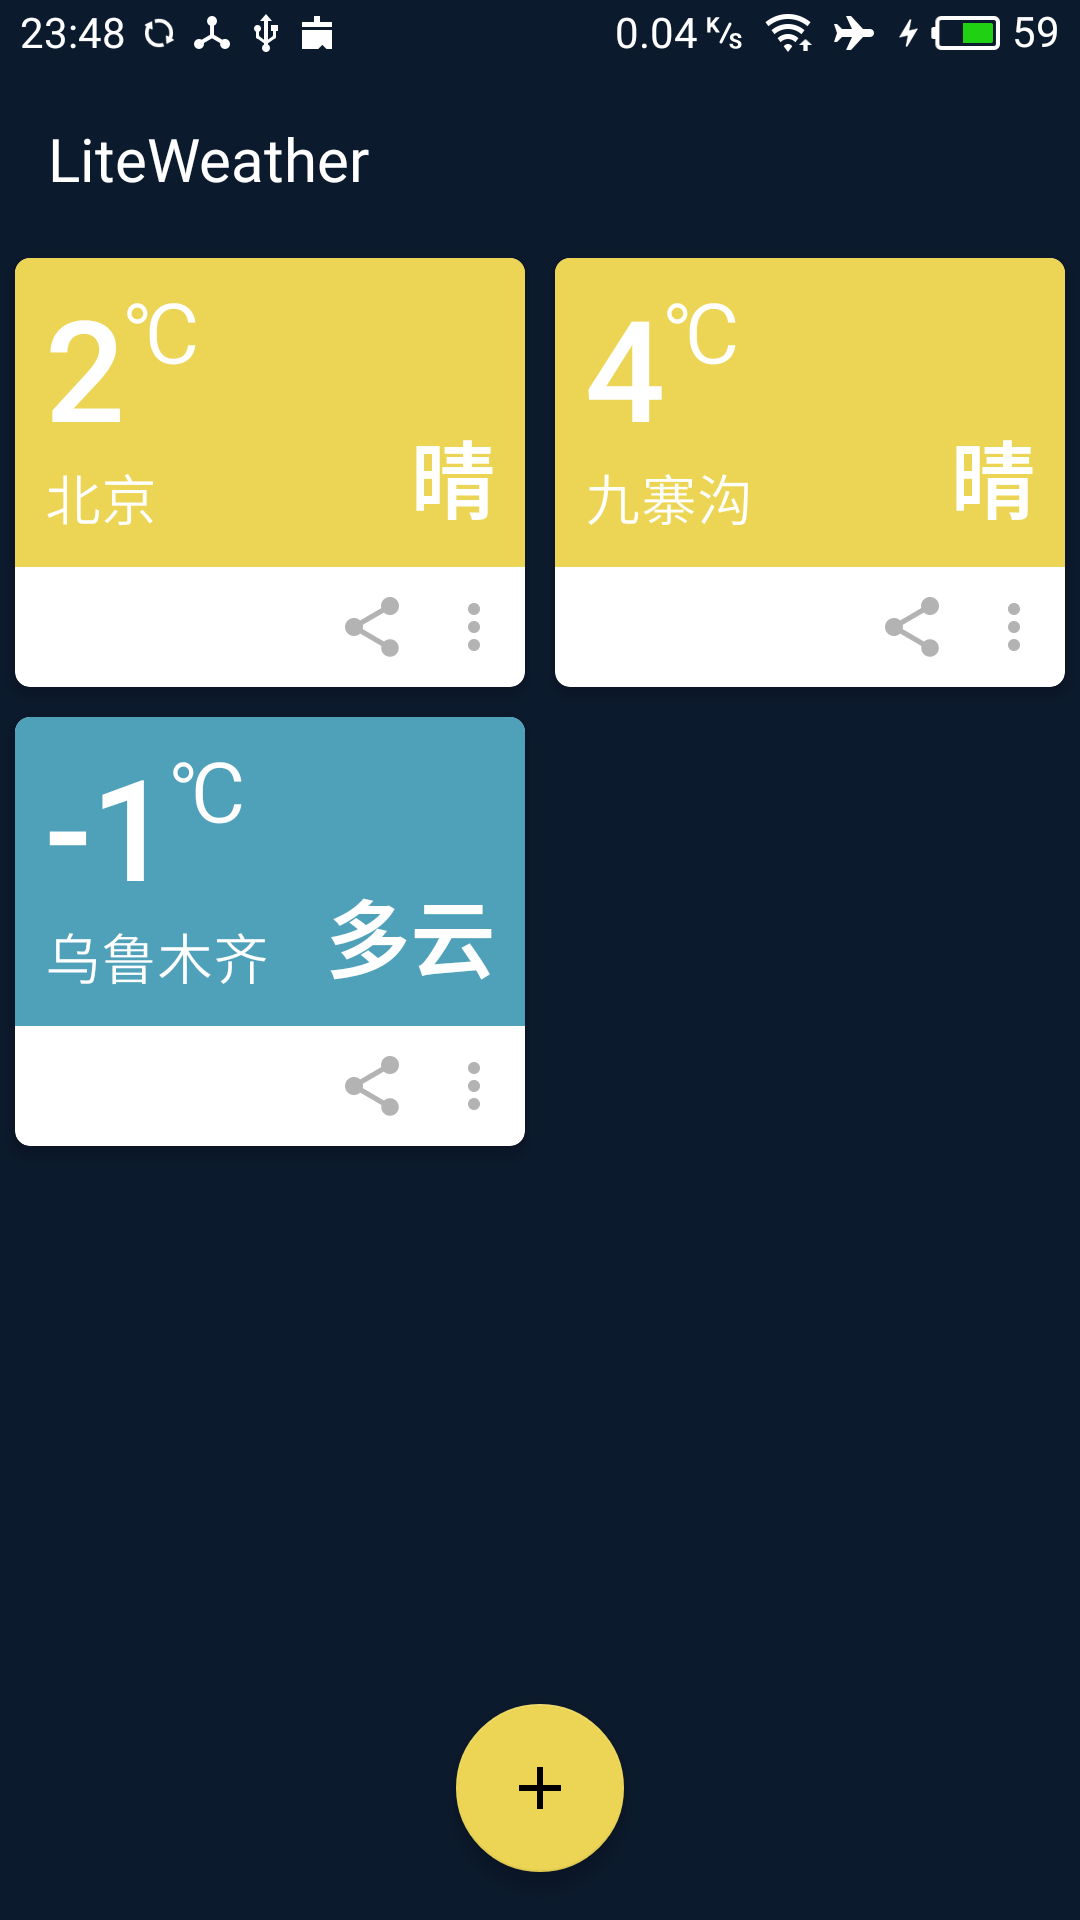
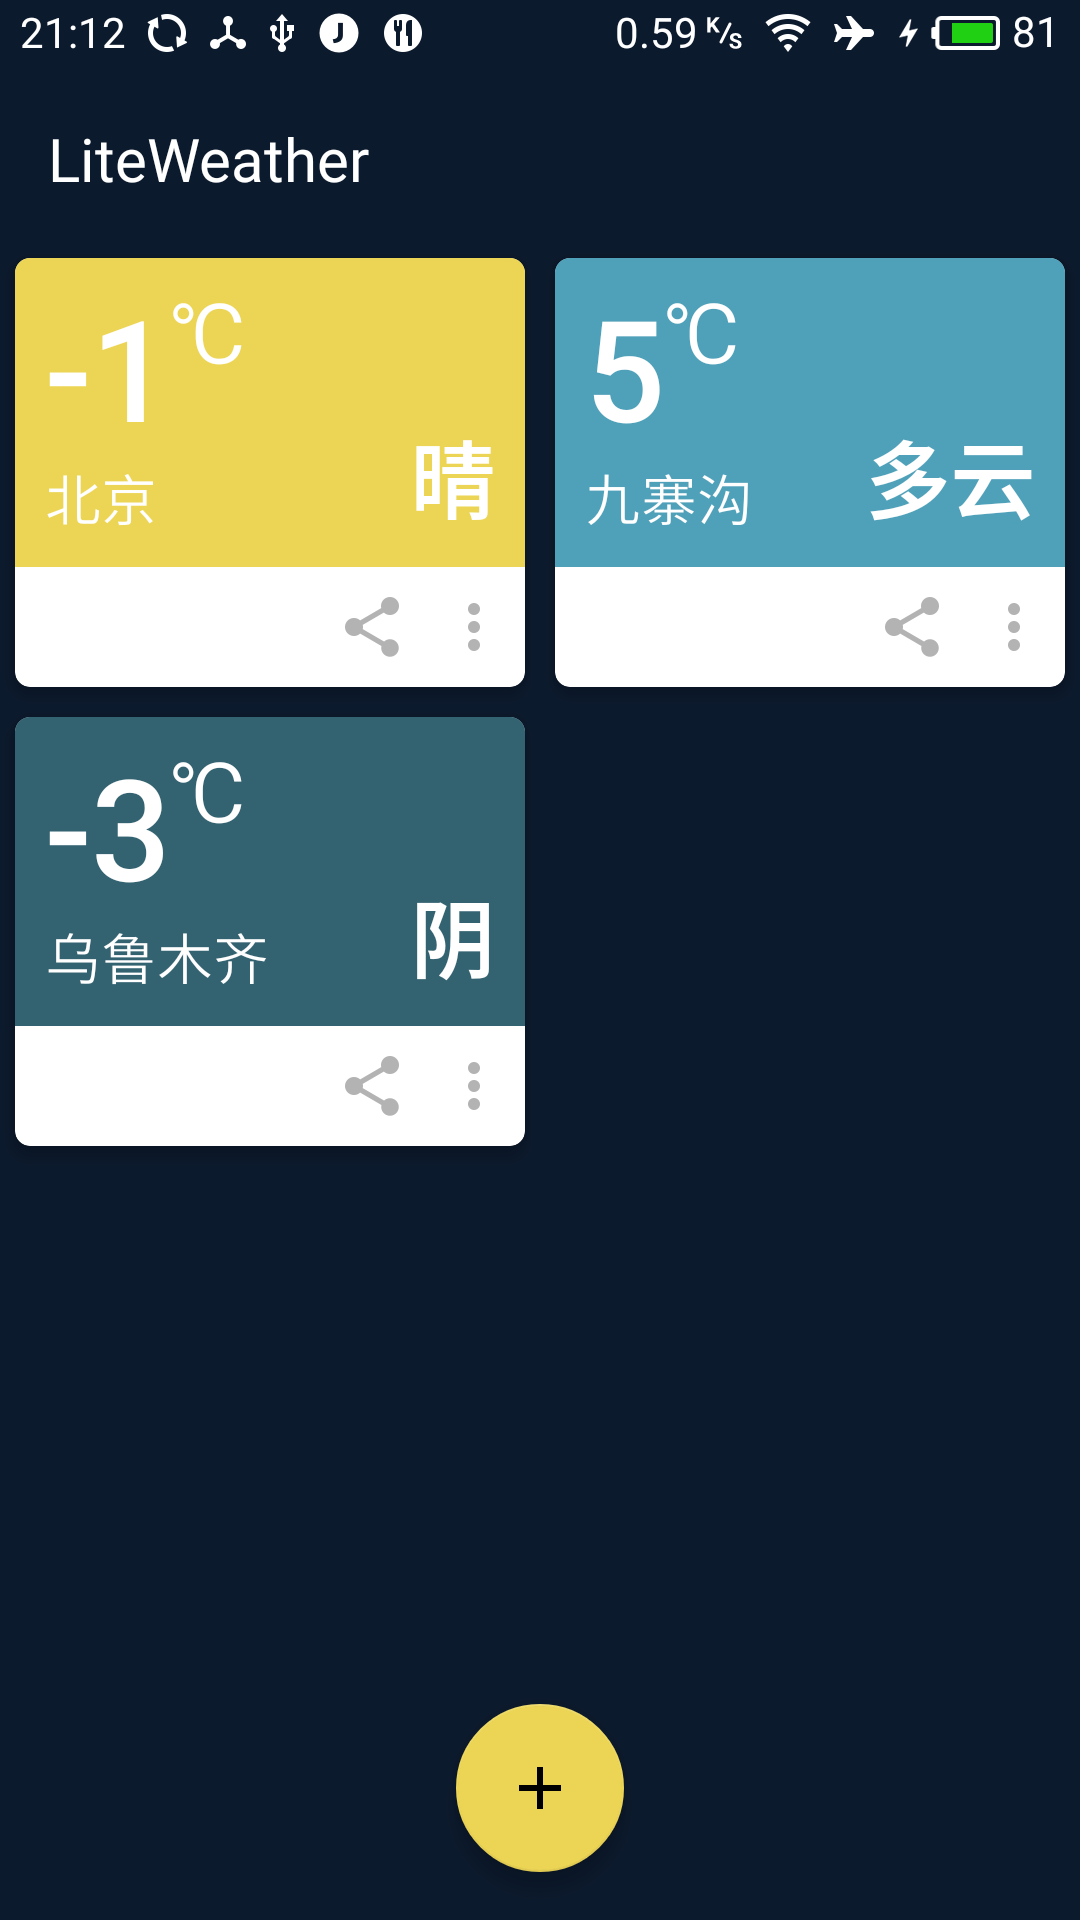
Implement: implement parts of weather detail page

diff --git a/app/src/main/java/io/github/mindjet/liteweather/viewmodel/DetailViewModel.kt b/app/src/main/java/io/github/mindjet/liteweather/viewmodel/DetailViewModel.kt
@@ -1,38 +1,66 @@
 package io.github.mindjet.liteweather.viewmodel
 
 import android.databinding.ObservableField
+import android.graphics.Color
 import android.graphics.drawable.Drawable
 import io.github.mindjet.liteweather.R
 import io.github.mindjet.liteweather.consant.Constant
 import io.github.mindjet.liteweather.consant.WeatherTxt
 import io.github.mindjet.liteweather.databinding.ActivityDetailBinding
+import io.github.mindjet.liteweather.model.DetailResponse
+import io.github.mindjet.liteweather.network.CommTrans
+import io.github.mindjet.liteweather.network.RetrofitInstance
+import io.github.mindjet.liteweather.network.WeatherService
 import io.github.mindjet.livemvvm.viewmodel.BaseViewModel
 
 /**
+ * ViewModel for weather detail.
+ *
  * Created by Mindjet on 2017/11/11.
  */
 class DetailViewModel : BaseViewModel<ActivityDetailBinding>() {
 
     private val city by lazy { activity?.intent?.getStringExtra(Constant.INTENT_CITYNAME) }
     private val condition by lazy { activity?.intent?.getStringExtra(Constant.INTENT_CONDITION) }
+    private val temperature by lazy { activity?.intent?.getStringExtra(Constant.INTENT_TEMPERATURE) }
 
     private val recyclerView by lazy { binding?.recyclerView }
     private val collapsingLayout by lazy { binding?.collapsingLayout }
     private val toolbar by lazy { binding?.toolbar }
 
-    val cityName by lazy { ObservableField("--") }
+    private var response: DetailResponse? = null
+
+    val cityOb by lazy { ObservableField("--") }
+    val tempOb by lazy { ObservableField("--") }
+    val conditionOb by lazy { ObservableField("--") }
+    val windOb by lazy { ObservableField("--") }
+    val humidityOb by lazy { ObservableField("--") }
     val background by lazy { ObservableField<Drawable>() }
 
     override fun onAttached(binding: ActivityDetailBinding) {
+        cityOb.set(city)
+        tempOb.set(temperature)
+        conditionOb.set(condition)
         initCollapsingLayout()
         updateBackground()
+        fetchData()
     }
 
     private fun initCollapsingLayout() {
-        collapsingLayout?.title = city
         collapsingLayout?.setCollapsedTitleTextAppearance(R.style.TextAppearance)
         collapsingLayout?.setExpandedTitleTextAppearance(R.style.TextAppearance_Expend)
+        toolbar?.setTitleTextColor(Color.WHITE)
         toolbar?.setNavigationOnClickListener { onBack() }
+    }
+
+    private fun fetchData() {
+        RetrofitInstance.get<WeatherService>()
+                .getDetailWeather(city!!)
+                .compose(CommTrans.asyncSync<DetailResponse>())
+                .subscribe({
+                    response = it
+                    updateNowBlock()
+                })
     }
 
     private fun updateBackground() {
@@ -40,8 +68,11 @@ class DetailViewModel : BaseViewModel<ActivityDetailBinding>() {
         background.set(context?.resources?.getDrawable(drawableId))
     }
 
-    private fun fetchData() {
-
+    private fun updateNowBlock() {
+        tempOb.set(response?.now?.temperature)
+        conditionOb.set(response?.now?.conditionTxt)
+        windOb.set("${response?.now?.windScale}/${response?.now?.windDirection}")
+        humidityOb.set("湿度${response?.now?.humidity}%")
     }
 
     fun onBack() {

diff --git a/app/src/main/java/io/github/mindjet/liteweather/network/CommTrans.kt b/app/src/main/java/io/github/mindjet/liteweather/network/CommTrans.kt
@@ -1,0 +1,27 @@
+package io.github.mindjet.liteweather.network
+
+import io.github.mindjet.liteweather.model.CommonResponse
+import rx.Observable
+import rx.android.schedulers.AndroidSchedulers
+import rx.schedulers.Schedulers
+
+/**
+ * Created by Mindjet on 2017/11/30.
+ */
+object CommTrans {
+
+    fun <T> asyncSync(): Observable.Transformer<CommonResponse<T>, T> {
+        return Observable.Transformer {
+            it.subscribeOn(Schedulers.io())
+                    .map { it.data?.get(0) }
+                    .observeOn(AndroidSchedulers.mainThread())
+        }
+    }
+
+    fun <T> asyncSync(source: Observable<CommonResponse<T>>) {
+        source.subscribeOn(Schedulers.io())
+                .map { it.data?.get(0) }
+                .observeOn(AndroidSchedulers.mainThread())
+    }
+
+}

diff --git a/app/src/main/java/io/github/mindjet/liteweather/viewmodel/WeatherItemViewModel.kt b/app/src/main/java/io/github/mindjet/liteweather/viewmodel/WeatherItemViewModel.kt
@@ -62,7 +62,10 @@ class WeatherItemViewModel(val city: String) : BaseItemViewModel<ItemWeatherBind
     }
 
     fun onClick(view: View) {
-        start<DetailActivity>(Pair(Constant.INTENT_CITYNAME, cityName.get()), Pair(Constant.INTENT_CONDITION, condition.get()))
+        start<DetailActivity>(
+                Pair(Constant.INTENT_CITYNAME, cityName.get()),
+                Pair(Constant.INTENT_CONDITION, condition.get()),
+                Pair(Constant.INTENT_TEMPERATURE, temperature.get()))
     }
 
     fun onShare(view: View) {

diff --git a/app/src/main/java/io/github/mindjet/liteweather/viewmodel/MainViewModel.kt b/app/src/main/java/io/github/mindjet/liteweather/viewmodel/MainViewModel.kt
@@ -37,9 +37,7 @@ class MainViewModel : BaseViewModel<ActivityMainBinding>() {
 
     private fun initData() {
         adapter.add(WeatherItemViewModel("北京"))
-        adapter.add(WeatherItemViewModel("九寨沟"))
-        adapter.add(WeatherItemViewModel("乌鲁木齐"))
-        adapter.notifyItemRangeInserted(0, 3)
+        adapter.notifyItemRangeInserted(0, 1)
     }
 
     private fun initReceive() {

diff --git a/app/src/main/java/io/github/mindjet/liteweather/network/WeatherService.kt b/app/src/main/java/io/github/mindjet/liteweather/network/WeatherService.kt
@@ -16,7 +16,7 @@ interface WeatherService {
     @GET("https://api.heweather.com/v5/search")
     fun searchCity(@Query("city") city: String): Observable<CommonResponseV5<SearchResponse>>
 
-    @GET("")
+    @GET("weather")
     fun getDetailWeather(@Query("location") city: String): Observable<CommonResponse<DetailResponse>>
 
 }

diff --git a/app/src/main/java/io/github/mindjet/liteweather/consant/Constant.kt b/app/src/main/java/io/github/mindjet/liteweather/consant/Constant.kt
@@ -10,4 +10,5 @@ object Constant {
 
     const val INTENT_CITYNAME = "intent-cityname"
     const val INTENT_CONDITION = "intent-condition"
+    const val INTENT_TEMPERATURE = "intent-temperature"
 }
